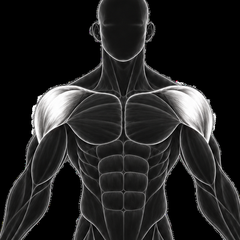
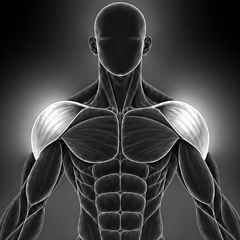
홈 "부위별 마지막 운동" 카드 - 어깨 이미지를 사용자가 보내준 새 하이라이트로 교체 (v0.9.94) (#574)
양쪽 삼각근이 흰색으로 강조된 새 이미지를 받아서, 다른 부위와 동일한 방식
(하이라이트 영역 기준 정사각형 크롭, 240x240)으로 재생성해 home_shoulder.png
교체.

Claude-Session: https://claude.ai/code/session_01TNoGCWRQtXcfdnQwZ6HvCX

diff --git a/index.html b/index.html
@@ -10399,7 +10399,7 @@ const settingsHeaderName = document.getElementById("settingsHeaderName");
 const settingsHeaderSub = document.getElementById("settingsHeaderSub");
 
 /* ✅ 앱 버전 정의 — 의미 있는 수정/배포마다 올림(설정 화면에서 "최신 버전 받았는지" 확인용) */
-const APP_VERSION = "0.9.93";
+const APP_VERSION = "0.9.94";
 const appVersionDisplay = document.getElementById("appVersionDisplay");
 if (appVersionDisplay) {
   appVersionDisplay.textContent = APP_VERSION;
